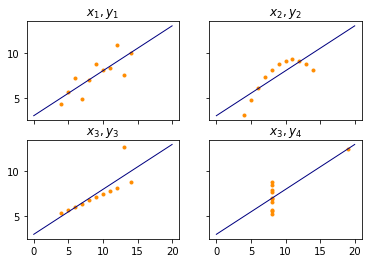
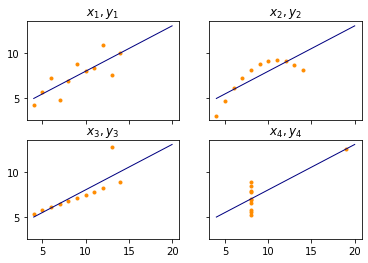
some changes to chapter 3 and test for hiding code

diff --git a/_build/03_Data-Exploration.html b/_build/03_Data-Exploration.html
@@ -13,7 +13,7 @@ prev_page:
 next_page:
   url: 
 suffix: .ipynb
-search: data mean e x not value arithmetic median values also statistics standard central deviation tendency variability g descriptive distribution range exploration where example n y line used thus means however misleading q visualization understand command same because statistical defined equal upper lower learn well consider simple less only information case within chapter described mode should normal outliers such using numeric quartile histogram knows between different head non metadata without works features good following single above instead measure frac xi similar assumptions parametric m both very lot bob scientist tools aspects text format jupyter any does work properties moreover especially middle
+search: data mean e not value x values arithmetic median also statistics standard density distribution central deviation range g tendency variability descriptive where example y exploration less thus n normal plot histogram line used however misleading means same q visualization understand simple command only because statistical defined such equal using upper lower shows learn well between consider information case single within chapter described mode above should outliers actually numeric quartile plots knows different head non metadata without any works features good following instead measure frac xi similar assumptions parametric m both very lot likely bob function scientist tools aspects text format
 
 comment: "***PROGRAMMATICALLY GENERATED, DO NOT EDIT. SEE ORIGINAL FILES IN /content***"
 ---
@@ -355,7 +355,7 @@ median: 2.465
 </div>
 </div>
 
-<div class="jb_cell">
+<div class="jb_cell tag_hide_input">
 
 <div class="cell border-box-sizing code_cell rendered">
 <div class="input">
@@ -416,7 +416,7 @@ median: 2.465
 </div>
 </div>
 
-<div class="jb_cell">
+<div class="jb_cell tag_hide_input">
 
 <div class="cell border-box-sizing code_cell rendered">
 <div class="input">
@@ -589,7 +589,10 @@ standard deviation of y1, ..., y4
 
 <div class="inner_cell">
     <div class="input_area">
-<div class=" highlight hl-ipython3"><pre><span></span><span class="n">f</span><span class="p">,</span> <span class="n">axes</span> <span class="o">=</span> <span class="n">plt</span><span class="o">.</span><span class="n">subplots</span><span class="p">(</span><span class="mi">2</span><span class="p">,</span> <span class="mi">2</span><span class="p">,</span> <span class="n">sharey</span><span class="o">=</span><span class="kc">True</span><span class="p">,</span> <span class="n">sharex</span><span class="o">=</span><span class="kc">True</span><span class="p">)</span>
+<div class=" highlight hl-ipython3"><pre><span></span><span class="n">xfit</span> <span class="o">=</span> <span class="n">np</span><span class="o">.</span><span class="n">array</span><span class="p">([</span><span class="mi">4</span><span class="p">,</span> <span class="mi">20</span><span class="p">])</span>
+<span class="n">yfit</span> <span class="o">=</span> <span class="mi">3</span><span class="o">+</span><span class="mf">0.5</span><span class="o">*</span><span class="n">xfit</span>
+
+<span class="n">f</span><span class="p">,</span> <span class="n">axes</span> <span class="o">=</span> <span class="n">plt</span><span class="o">.</span><span class="n">subplots</span><span class="p">(</span><span class="mi">2</span><span class="p">,</span> <span class="mi">2</span><span class="p">,</span> <span class="n">sharey</span><span class="o">=</span><span class="kc">True</span><span class="p">,</span> <span class="n">sharex</span><span class="o">=</span><span class="kc">True</span><span class="p">)</span>
 <span class="n">axes</span><span class="p">[</span><span class="mi">0</span><span class="p">,</span> <span class="mi">0</span><span class="p">]</span><span class="o">.</span><span class="n">plot</span><span class="p">(</span><span class="n">x</span><span class="p">,</span> <span class="n">y1</span><span class="p">,</span> <span class="n">color</span><span class="o">=</span><span class="s1">&#39;darkorange&#39;</span><span class="p">,</span> <span class="n">marker</span><span class="o">=</span><span class="s1">&#39;.&#39;</span><span class="p">,</span> <span class="n">linestyle</span><span class="o">=</span><span class="s1">&#39;none&#39;</span><span class="p">)</span>
 <span class="n">axes</span><span class="p">[</span><span class="mi">0</span><span class="p">,</span> <span class="mi">0</span><span class="p">]</span><span class="o">.</span><span class="n">plot</span><span class="p">(</span><span class="n">xfit</span><span class="p">,</span> <span class="n">yfit</span><span class="p">,</span> <span class="n">color</span><span class="o">=</span><span class="s1">&#39;navy&#39;</span><span class="p">,</span> <span class="n">lw</span><span class="o">=</span><span class="mi">1</span><span class="p">)</span>
 <span class="n">axes</span><span class="p">[</span><span class="mi">0</span><span class="p">,</span> <span class="mi">0</span><span class="p">]</span><span class="o">.</span><span class="n">set_title</span><span class="p">(</span><span class="s1">&#39;$x_1, y_1$&#39;</span><span class="p">)</span>
@@ -732,7 +735,7 @@ problems.
 
 <div class="cell border-box-sizing text_cell rendered"><div class="inner_cell">
 <div class="text_cell_render border-box-sizing rendered_html">
-<p>The above description is an example of metadata, in this case the documentation of the data we are using. We now take a closer look at the feature <em>MEDV</em>, the median value of owner-occupied homes in $1000's. Histogram are a simple and effective way to learn about the distribution of data.</p>
+<p>The above description is an example of metadata, in this case the documentation of the data we are using. We now take a closer look at the feature MEDV, the median value of owner-occupied homes in $1000's. <em>Histograms</em> are a simple and effective way to learn about the distribution of data.</p>
 
 </div>
 </div>
@@ -747,7 +750,7 @@ problems.
 <div class="inner_cell">
     <div class="input_area">
 <div class=" highlight hl-ipython3"><pre><span></span><span class="n">plt</span><span class="o">.</span><span class="n">figure</span><span class="p">()</span>
-<span class="n">plt</span><span class="o">.</span><span class="n">hist</span><span class="p">(</span><span class="n">y</span><span class="p">,</span> <span class="n">bins</span><span class="o">=</span><span class="mi">100</span><span class="p">)</span>
+<span class="n">plt</span><span class="o">.</span><span class="n">hist</span><span class="p">(</span><span class="n">boston</span><span class="o">.</span><span class="n">target</span><span class="p">,</span> <span class="n">bins</span><span class="o">=</span><span class="mi">100</span><span class="p">)</span>
 <span class="n">plt</span><span class="o">.</span><span class="n">xlabel</span><span class="p">(</span><span class="s1">&#39;Value in 1000 $&#39;</span><span class="p">)</span>
 <span class="n">plt</span><span class="o">.</span><span class="n">ylabel</span><span class="p">(</span><span class="s1">&#39;Frequency&#39;</span><span class="p">)</span>
 <span class="n">plt</span><span class="o">.</span><span class="n">show</span><span class="p">()</span>
@@ -786,10 +789,108 @@ problems.
 <ul>
 <li>The values less than 30 seem to follow data seems to follow a normal distribution. This is indicated by the bell-shape of the histogram. The mean value of this normal distribution is somewhere around 22. This can be estimated by look at there the peak of the histogram is located, i.e., where the most values are. The standard deviation is likely somewhere between 7 and 11. Such a rough estimate of the standard deviation can be obtained using the 68-95-99.7 we discussed <a href="#Variability">above</a>. </li>
 <li>A lot of values are at the at the largest bin on the right side of the plot, i.e., exactly at 50. This indicates that all values larger than 50 were set to exactly 50. Thus, while the numeric value is 50, the actual meaning is greater or equal to 50. </li>
+<li>There seems to be a long tail of data on the right side of the plot, i.e., there are expensive homes of all prices, but not many.</li>
 </ul>
+<p>Another way to look at a single feature is to use a <em>density plot</em>.</p>
 
 </div>
 </div>
+</div>
+</div>
+
+<div class="jb_cell">
+
+<div class="cell border-box-sizing code_cell rendered">
+<div class="input">
+
+<div class="inner_cell">
+    <div class="input_area">
+<div class=" highlight hl-ipython3"><pre><span></span><span class="kn">import</span> <span class="nn">seaborn</span> <span class="k">as</span> <span class="nn">sns</span>  <span class="c1"># seaborn is a visualization libary build on top of matplotlib</span>
+
+<span class="n">plt</span><span class="o">.</span><span class="n">figure</span><span class="p">()</span>
+<span class="n">sns</span><span class="o">.</span><span class="n">distplot</span><span class="p">(</span><span class="n">boston</span><span class="o">.</span><span class="n">target</span><span class="p">,</span> <span class="n">hist</span><span class="o">=</span><span class="kc">False</span><span class="p">)</span>
+<span class="n">plt</span><span class="o">.</span><span class="n">xlabel</span><span class="p">(</span><span class="s1">&#39;Value in 1000 $&#39;</span><span class="p">)</span>
+<span class="n">plt</span><span class="o">.</span><span class="n">ylabel</span><span class="p">(</span><span class="s1">&#39;Frequency&#39;</span><span class="p">)</span>
+<span class="n">plt</span><span class="o">.</span><span class="n">show</span><span class="p">()</span>
+</pre></div>
+
+    </div>
+</div>
+</div>
+
+<div class="output_wrapper">
+<div class="output">
+
+<div class="jb_output_wrapper }}">
+<div class="output_area">
+
+
+
+<div class="output_png output_subarea ">
+<img src="images/03_Data-Exploration_26_0.png"
+>
+</div>
+
+</div>
+</div>
+</div>
+</div>
+
+</div>
+</div>
+
+<div class="jb_cell">
+
+<div class="cell border-box-sizing text_cell rendered"><div class="inner_cell">
+<div class="text_cell_render border-box-sizing rendered_html">
+<p>The density plot shows an estimate of the probability density function of the distribution of the feature. While it is a bit of a simplification, you can think of the density plot as a continuous histogram. An advantage of the density plot over the histogram is that it is often easier to see the distribution of the data. In the example above, the bell-shape is clearer than in the histogram. Thus, it is easier to see that the data is mostly normal. However, density plots also have two disadvantages in comparison to histograms. The smaller disadvantage is that y-axis is less meaningful. In the histogram, you can directly see the counts, i.e. how many instances in your data fall into a bin. The density plot shows hows a frequency that is somewhere between 0.0 and 1.0. This is more or less the fraction of the data, that is located at any specific point at the x-axis.</p>
+<p>The second disadvantage of density plots is bigger. The histogram clearly shows the strange behavior of the data at the value 50. In the density plot, there is only a small peak that looks like there may be another normal distribution with less data and a mean value of 50. This is misleading and hides what is actually happening in the data. This is always a risk with density plots and it cannot be avoided, due to the way density plots are created. Such misrepresentations of the data are more likely if the data is less dense and at the boundary of the range in the data. Often, the density function even goes slightly beyond the range of the data.</p>
+<blockquote><p>Note:</p>
+<p>Density plots are created using a <em>kernel density function</em>, often the normal distribution. This density function is fit to each value of the data with a certain scaling parameter and bandwidth. Then, the values of all these kernel densities are summed up to create the density plot. This explains the problems at the boundaries: the kernel density function fit to the highest data point has to go beyond the range of the data, given that it is a normal distribution with a positive variance. And if there is strange behavior, e.g., due to a many values being exactly the same at the boundary, this is hidden by the scaling parameter.</p>
+</blockquote>
+<p>A simple why to avoid the problem that density plots may indicate that there is data, where there is not actually data (e.g., beyond the range of the actual data, is to use a <em>rug</em>.</p>
+
+</div>
+</div>
+</div>
+</div>
+
+<div class="jb_cell">
+
+<div class="cell border-box-sizing code_cell rendered">
+<div class="input">
+
+<div class="inner_cell">
+    <div class="input_area">
+<div class=" highlight hl-ipython3"><pre><span></span><span class="n">plt</span><span class="o">.</span><span class="n">figure</span><span class="p">()</span>
+<span class="n">sns</span><span class="o">.</span><span class="n">distplot</span><span class="p">(</span><span class="n">boston</span><span class="o">.</span><span class="n">target</span><span class="p">,</span> <span class="n">hist</span><span class="o">=</span><span class="kc">False</span><span class="p">,</span> <span class="n">rug</span><span class="o">=</span><span class="kc">True</span><span class="p">)</span>
+<span class="n">plt</span><span class="o">.</span><span class="n">xlabel</span><span class="p">(</span><span class="s1">&#39;Value in 1000 $&#39;</span><span class="p">)</span>
+<span class="n">plt</span><span class="o">.</span><span class="n">ylabel</span><span class="p">(</span><span class="s1">&#39;Frequency&#39;</span><span class="p">)</span>
+<span class="n">plt</span><span class="o">.</span><span class="n">show</span><span class="p">()</span>
+</pre></div>
+
+    </div>
+</div>
+</div>
+
+<div class="output_wrapper">
+<div class="output">
+
+<div class="jb_output_wrapper }}">
+<div class="output_area">
+
+
+
+<div class="output_png output_subarea ">
+<img src="images/03_Data-Exploration_28_0.png"
+>
+</div>
+
+</div>
+</div>
+</div>
+</div>
+
 </div>
 </div>
 
